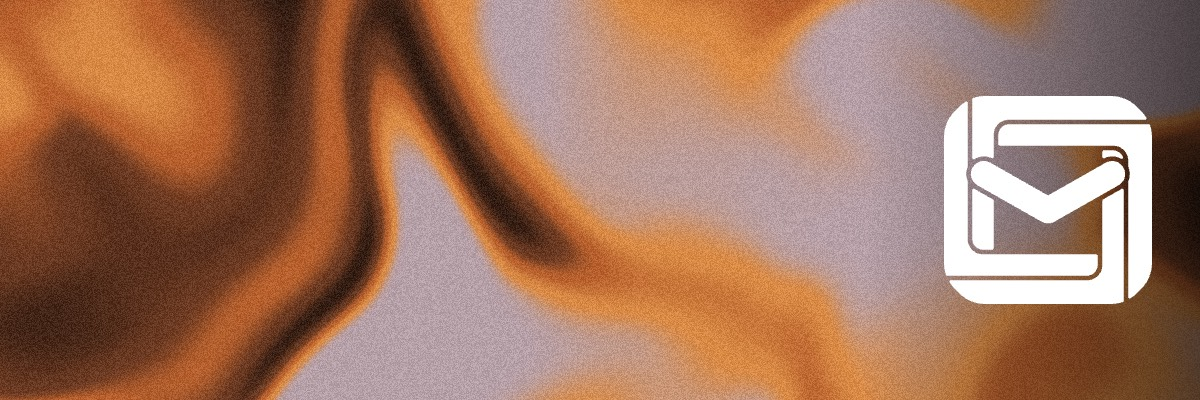
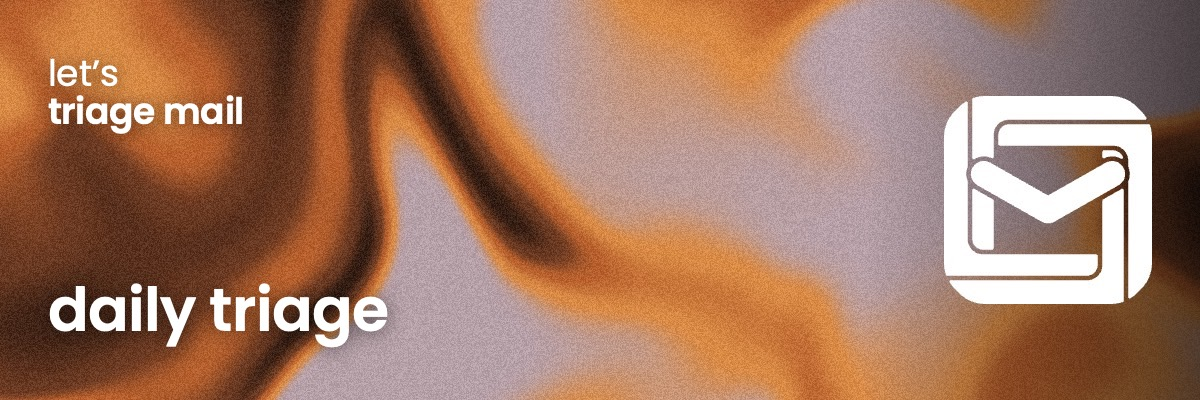
Draw the digest title into the header picture
Gmail on iOS drops negative margins (the live title fell under the
picture), drops CSS background images, and recolours text in dark mode
but never images. The header is now one <img src="cid:digest-header">
with the lockup and title drawn in (30 px title on the 600 px column),
the emblem on the right, and the title in the alt text. An <img> also
survives forwarding. The picture is a draft made here; the design repo
still has the CSS-background version.

Changed region(s): [[0.0308, 0.69, 0.3392, 0.87], [0.0308, 0.15, 0.2158, 0.36]]

diff --git a/src/digest/render.rs b/src/digest/render.rs
@@ -14,9 +14,9 @@
 //! variables reliably.
 //!
 //! The only image is the header (`assets/digest-header.jpg`), sent **inside the message** as
-//! an inline part (`cid:digest-header`), not as a link: the digest loads nothing from the
-//! network, so opening it tells nobody anything. A CSS gradient under it shows when a client
-//! blocks images anyway.
+//! an inline part and shown with `<img src="cid:digest-header">`, not as a link: the digest
+//! loads nothing from the network, so opening it tells nobody anything. A CSS gradient under it
+//! shows when a client blocks images anyway.
 //!
 //! **Everything that came from email is escaped** by [`escape_html`]: senders, subjects and the
 //! model's reasons. The model's reasons are themselves derived from hostile input.
@@ -41,7 +41,7 @@ pub const DIGEST_HEADER_VALUE: &str = "digest";
 /// The longest subject we write.
 const MAX_SUBJECT_CHARS: usize = 150;
 
-/// The header image, from the design repo (`render-header.html`): the grain with the emblem.
+/// The header image: the grain, the emblem and the title (a draft; the design repo has no titled one yet).
 const HEADER_IMAGE: &[u8] = include_bytes!("../../assets/digest-header.jpg");
 /// Its `Content-ID`; the HTML refers to it as `cid:digest-header`.
 const HEADER_CID: &str = "digest-header";
@@ -375,16 +375,18 @@ fn pill(text: &str, colour: Option<FlagColour>) -> String {
     )
 }
 
-/// The header: the grain image with the emblem, the lockup as live text over a scrim, and an
-/// ember gradient under the image for clients that block it.
+/// The header: one picture with the grain, the emblem and the title drawn in, as an `<img>`,
+/// with an ember gradient behind it for clients that block images.
+///
+/// Drawn in, not live text over the picture: Gmail on iOS drops negative margins (the text fell
+/// under the picture), drops CSS background images (the picture vanished), and recolours text
+/// in dark mode but never images. An `<img>` also survives forwarding. The picture is 1200×400
+/// and scales whole: the 30 px title is about 17 px on a phone.
 fn header_html() -> String {
     format!(
-        "<tr><td height=\"152\" style=\"border-radius:24px;background-color:#24150F;background-image:linear-gradient(90deg,rgba(0,0,0,0.55) 0,rgba(0,0,0,0.55) 130px,rgba(0,0,0,0) 210px),url(cid:{HEADER_CID}),radial-gradient(120% 140% at 100% 0%,#D98A45 0%,#B8612E 22%,rgba(107,58,34,0) 60%),linear-gradient(110deg,#24150F 0%,#24150F 40%,#6B3A22 100%);background-size:auto,cover,auto,auto;background-position:0 0,right center,0 0,0 0;background-repeat:no-repeat;padding:24px;color:#FFFFFF;vertical-align:top\">
-<div style=\"font:400 17px/1.05 {FONT};color:#FFFFFF\">let&rsquo;s</div>
-<div style=\"font:600 17px/1.15 {FONT};letter-spacing:-0.01em;color:#FFFFFF\">triage mail</div>
-<div style=\"height:84px;line-height:84px;font-size:1px\">&nbsp;</div>
-<div style=\"font:600 26px/1.15 {FONT};letter-spacing:-0.01em;color:#FFFFFF\">daily triage</div>
-</td></tr>"
+        "<tr><td style=\"padding:0;vertical-align:top\"><div style=\"border-radius:24px;overflow:hidden;background-color:#24150F;background-image:linear-gradient(110deg,#24150F 0%,#24150F 40%,#6B3A22 100%)\">
+<img src=\"cid:{HEADER_CID}\" width=\"600\" height=\"200\" alt=\"let&rsquo;s triage mail: daily triage\" style=\"display:block;width:100%;height:auto;border:0;color:#FFFFFF;font:600 26px/1.15 {FONT}\">
+</div></td></tr>"
     )
 }
 
@@ -929,7 +931,7 @@ Written by Let's Triage Mail on your own machine. Nothing left it.
     fn the_html_follows_the_design() {
         let html = render(&full_digest()).html;
         // The lockup, the headline, a tile per flag with its colour, the period, lowercase.
-        assert!(html.contains("triage mail</div>"));
+        assert!(html.contains("alt=\"let&rsquo;s triage mail: daily triage\""));
         assert!(html.contains("5 messages need you"));
         assert!(html.contains("work &middot; mon 26 oct 2026"));
         assert!(html.contains("25 oct 07:00 – 26 oct 07:00 · 57 messages"));
@@ -945,14 +947,22 @@ Written by Let's Triage Mail on your own machine. Nothing left it.
     #[test]
     fn the_html_has_no_remote_content_and_supports_dark_mode() {
         let html = render(&full_digest()).html;
-        for remote in ["http://", "https://", "<img", "<link", "<script", "@import"] {
+        for remote in ["http://", "https://", "<link", "<script", "@import", "url("] {
             assert!(!html.contains(remote), "found {remote} in the HTML");
         }
         // The one image is the header, carried inside the message.
-        assert_eq!(html.matches("url(").count(), 1);
-        assert!(html.contains("url(cid:digest-header)"));
+        assert_eq!(html.matches("<img").count(), 1);
+        assert!(html.contains("<img src=\"cid:digest-header\""));
         assert!(html.contains("prefers-color-scheme: dark"));
         assert!(html.contains("color-scheme"));
+    }
+
+    #[test]
+    fn the_header_is_one_picture_with_the_title_in_its_alt() {
+        let html = render(&full_digest()).html;
+        // No text laid over the picture: Gmail drops the negative margin and recolours it.
+        assert!(!html.contains("margin-top:-"));
+        assert!(html.contains("alt=\"let&rsquo;s triage mail: daily triage\""));
     }
 
     #[test]
@@ -972,7 +982,7 @@ Written by Let's Triage Mail on your own machine. Nothing left it.
 
         let html = render(&digest).html;
         assert!(!html.contains("<script"), "{html}");
-        assert!(!html.contains("<img"), "{html}");
+        assert!(!html.contains("<img src=x"), "{html}");
         assert!(!html.contains("<b>"), "{html}");
         assert!(
             html.contains("&lt;script&gt;alert(&#39;subject&#39;)&lt;/script&gt; &amp; more"),
@@ -1053,7 +1063,7 @@ Written by Let's Triage Mail on your own machine. Nothing left it.
             message
                 .body_html(0)
                 .unwrap()
-                .contains("url(cid:digest-header)")
+                .contains("<img src=\"cid:digest-header\"")
         );
         let raw = String::from_utf8_lossy(&bytes);
         assert!(raw.contains("multipart/alternative"), "{raw}");

diff --git a/docs/DECISIONS.md b/docs/DECISIONS.md
@@ -36,6 +36,7 @@
 | 2026-10-28 | **Moving mail will be allowed (v2)**, opt-in per folder and category, never for trusted senders, move-only (no delete), logged, with `undo`. **Dry-run is optional**: recommended, not required | Ends the v1 "never move or hide mail" rule after v1, by Piotr's decision. A wrong move hides mail, so the safety kit is not optional; the waiting period is the user's call. |
 | 2026-10-28 | **Folders are discovered, not configured**: from the connection details alone the service lists every folder with its role and stores the list per account. Baby steps: v1.1a discovery, v1.1b folder modes together with per-account flag profiles | The user should not have to know IMAP folder names or delimiters. Discovery alone changes no behaviour, so it can ship and be checked first. |
 | 2026-10-29 | The digest HTML follows the design repo's email (`design/email/triage-mail/`), with its header image **inside the message** as an inline `cid:` part; "possibly misfiled in spam" uses the section style with a neutral dot until the design covers it | An attached image is not a remote load, so the digest still tells nobody it was opened. The CSS gradient under it covers clients that block it. A user-chosen blue flag gets the neutral dot: there is no blue token yet. |
+| 2026-10-29 | The digest header is **one `<img src="cid:…">` with the title drawn into the picture** (title left, emblem right, no tint), the title in its `alt` | Gmail on iOS drops negative margins (live text fell under the picture), drops CSS background images (the picture vanished), and recolours text in dark mode but never images. Forwarding keeps only images an `<img>` uses. The title is drawn at 30 px on the 600 px column (about 17 px on a phone); 44 and 34 px looked too big in Apple Mail. The picture is a draft made here; the design repo's draft uses a CSS background with live text and needs updating. |
 
 ## Rejected or parked options
 
